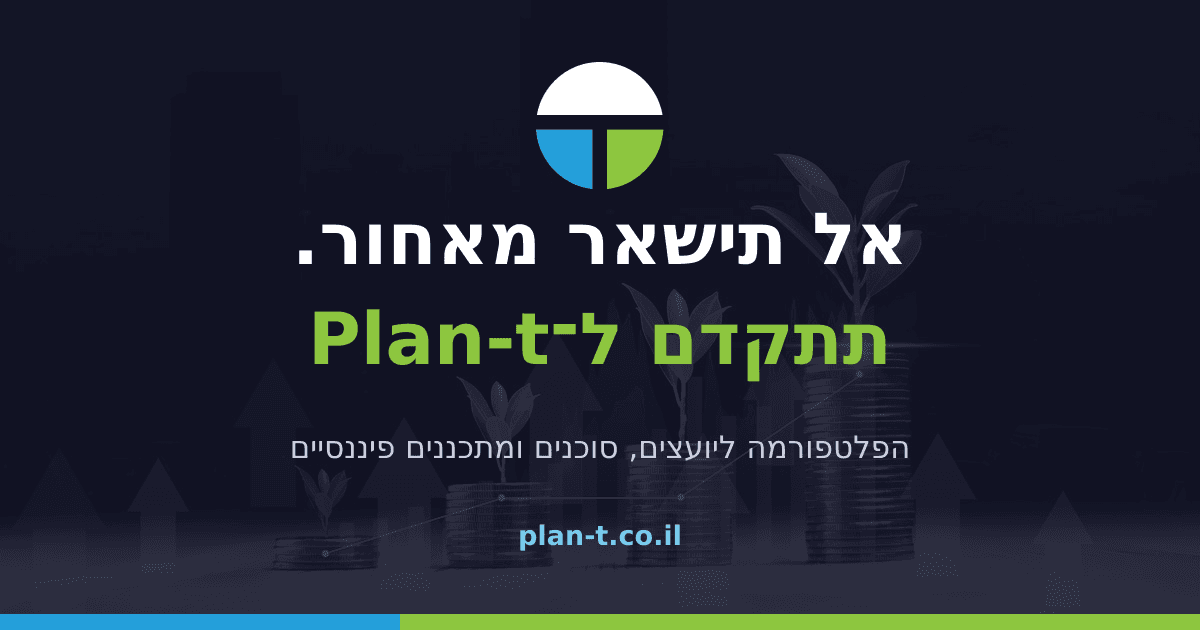
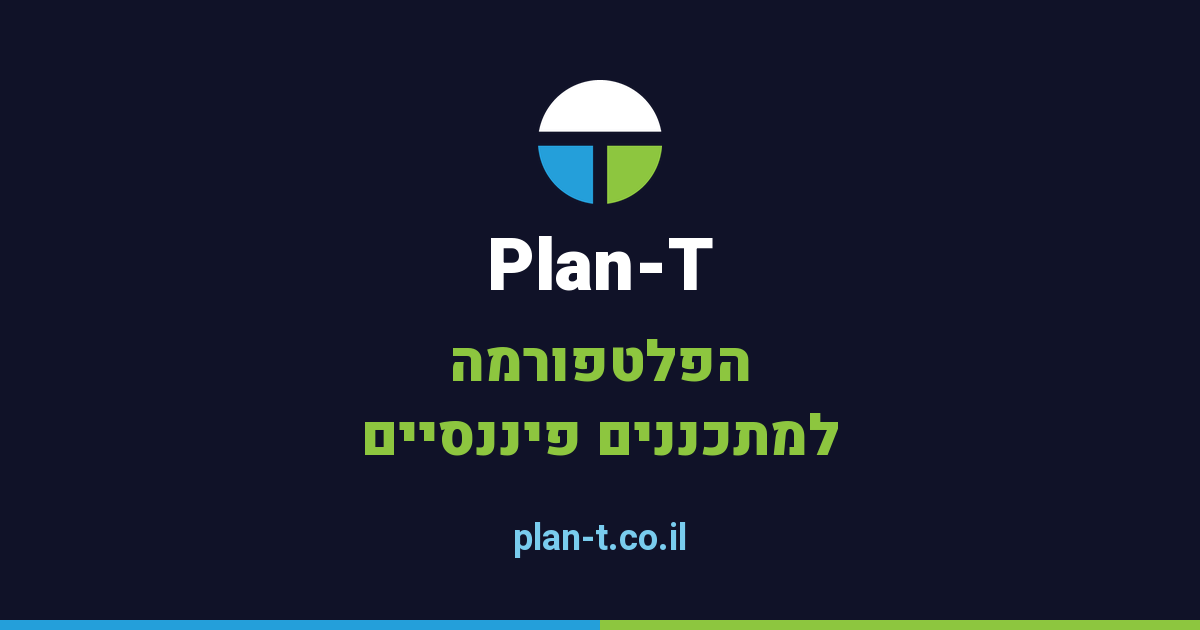
feat(site): single audience — financial planners (hero, work processes, og card)

Changed region(s): [[0.0, 0.0905, 1.0, 1.0], [0.6475, 0.2413, 0.7708, 0.4222]]

diff --git a/scripts/check-content.js b/scripts/check-content.js
@@ -90,6 +90,28 @@ const DESCRIPTIONS = {
   '/product/': PRODUCT.description,
 };
 
+// The retired slogan and eyebrow — forbidden everywhere, /webinar/ included
+// (verified absent there), in displayed text and metadata alike.
+const FORBIDDEN_COPY = ['מסוכן למתכנן', 'אל תישאר מאחור', 'תתקדם ל־'];
+
+// The retired audience trio — gone from every route except /webinar/, which
+// keeps its own content by decree.
+const RETIRED_AUDIENCES = ['סוכני ביטוח', 'יועצים פנסיוניים', 'לפי תפקיד'];
+
+// The approved single-audience copy, pinned exactly.
+const HOME_HERO = {
+  eyebrow: 'הפלטפורמה למתכננים פיננסיים',
+  h1: 'כל תיק הלקוח. תמונה אחת ברורה.',
+};
+const SOLUTIONS = {
+  title: 'תהליכי עבודה למתכננים פיננסיים | Plan-T',
+  h1: 'תהליכי עבודה למתכננים פיננסיים',
+  navLabel: 'תהליכי עבודה',
+  h2s: ['לפני הפגישה', 'במהלך התכנון', 'לאחר הפגישה'],
+};
+const FOOTER_BLURB = 'פלטפורמה למתכננים פיננסיים בישראל.';
+const ABOUT_DESCRIPTION = 'מי אנחנו: פלטפורמה ישראלית שנבנית יחד עם מתכננים פיננסיים.';
+
 // Copy that left with the AI section and must not come back anywhere.
 const RETIRED_AI_COPY = [
   'תמצות תיק לקוח', 'טיוטת סיכום פגישה', 'איתור פערים',
@@ -394,6 +416,43 @@ note(page['/product/'].h2sOwn[1] === 'היתרונות המרכזיים', `/prod
 // The home title, in the document and in the Open Graph card built from it.
 note(page['/'].title === HOME_TITLE, `/ title = "${page['/'].title}"`);
 note(page['/'].ogTitle === HOME_TITLE, `/ og:title = "${page['/'].ogTitle}"`);
+
+// --- step 3A: the single-audience contract ---------------------------------
+for (const r of ROUTES) {
+  const p = page[r];
+  const everywhere = [p.title, p.description, p.ogTitle, p.ogDescription,
+    p.headerText, p.footerText, r === '/webinar/' ? '' : p.mainText].map(norm).join(' | ');
+  for (const f of FORBIDDEN_COPY) {
+    note(!everywhere.includes(f), `${r}: forbidden copy present — "${f}"`);
+  }
+  if (r !== '/webinar/') {
+    const own = [p.title, p.description, p.ogTitle, p.ogDescription, p.mainText].map(norm).join(' | ');
+    for (const a of RETIRED_AUDIENCES) {
+      note(!own.includes(a), `${r}: retired audience wording — "${a}"`);
+    }
+  }
+  // the shared navigation carries neither, on any route
+  const navText = norm(p.headerText) + ' | ' + norm(p.footerText);
+  for (const a of RETIRED_AUDIENCES) {
+    note(!navText.includes(a), `${r}: retired audience wording in the navigation — "${a}"`);
+  }
+}
+note(page['/'].mainText.includes(HOME_HERO.eyebrow), `/ hero eyebrow missing`);
+note(page['/'].h1s.length === 1 && page['/'].h1s[0] === HOME_HERO.h1,
+  `/ h1 = ${JSON.stringify(page['/'].h1s)}`);
+note(page['/solutions/'].title === SOLUTIONS.title, `/solutions/ title = "${page['/solutions/'].title}"`);
+note(page['/solutions/'].h1s.length === 1 && page['/solutions/'].h1s[0] === SOLUTIONS.h1,
+  `/solutions/ h1 = ${JSON.stringify(page['/solutions/'].h1s)}`);
+note(JSON.stringify(page['/solutions/'].h2sOwn) === JSON.stringify(SOLUTIONS.h2s),
+  `/solutions/ h2 outline = ${JSON.stringify(page['/solutions/'].h2sOwn)}`);
+note(page['/'].footerText.includes(FOOTER_BLURB), `footer blurb missing or changed`);
+note(norm(page['/about/'].description) === norm(ABOUT_DESCRIPTION),
+  `/about/ description = "${page['/about/'].description}"`);
+// the nav label for /solutions/ on every route
+for (const r of ROUTES) {
+  const d = page[r];
+  note(d.headerText.includes(SOLUTIONS.navLabel), `${r}: nav label "${SOLUTIONS.navLabel}" missing from header`);
+}
 
 // --- 4. nothing renders blank ---------------------------------------------
 for (const r of ['/', '/product/']) {
